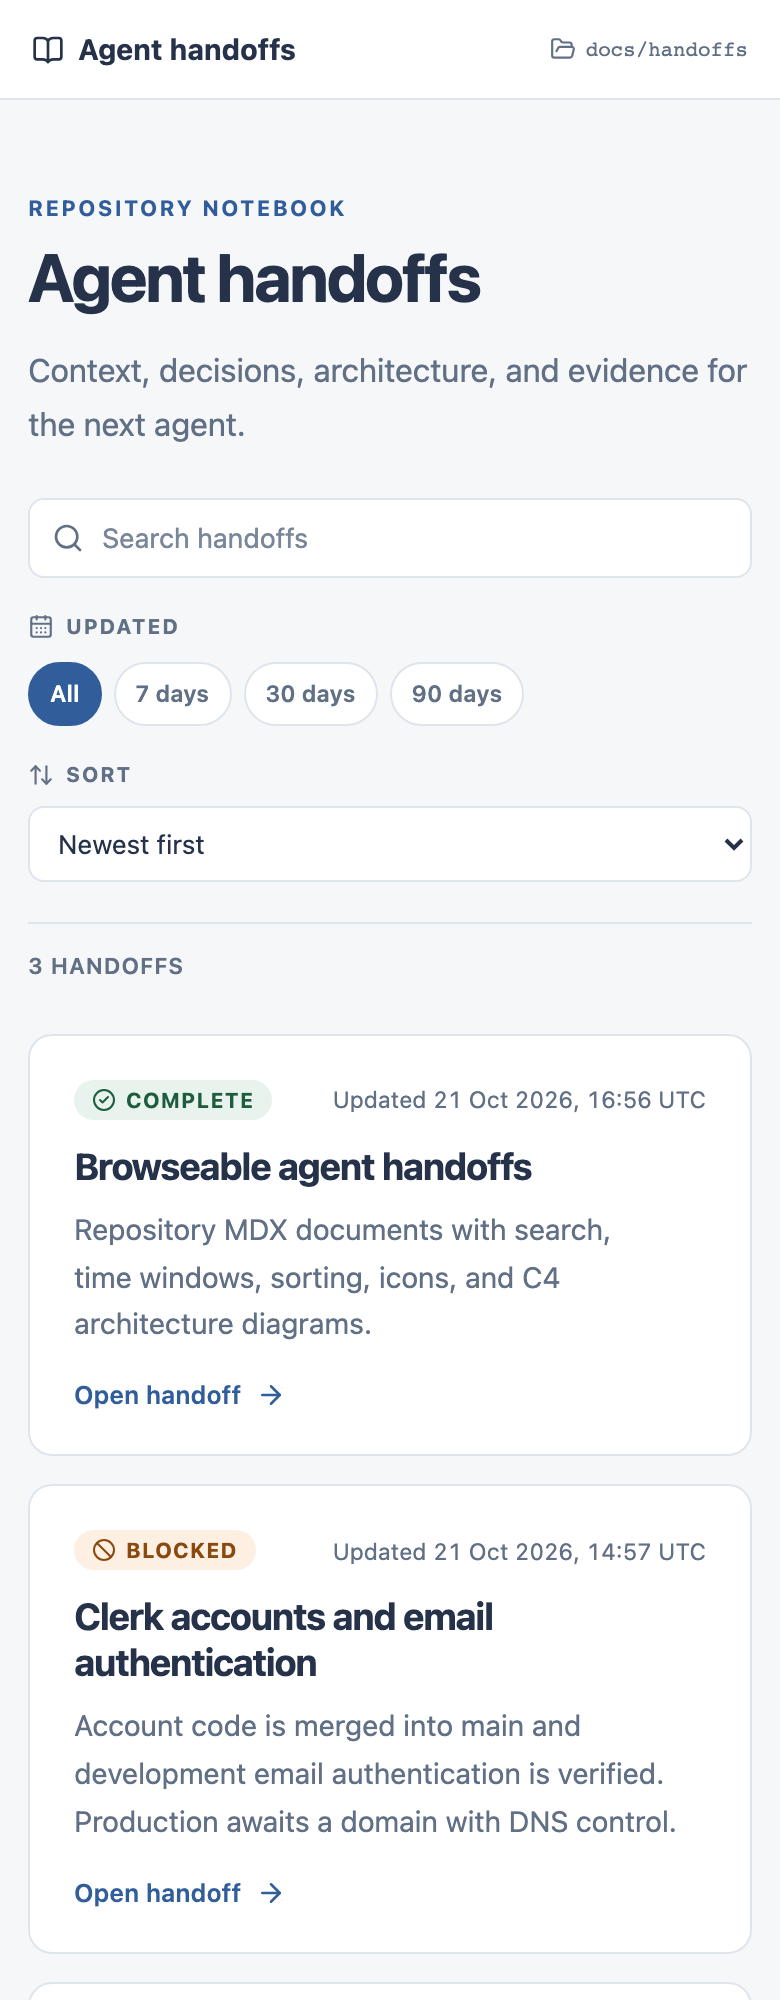
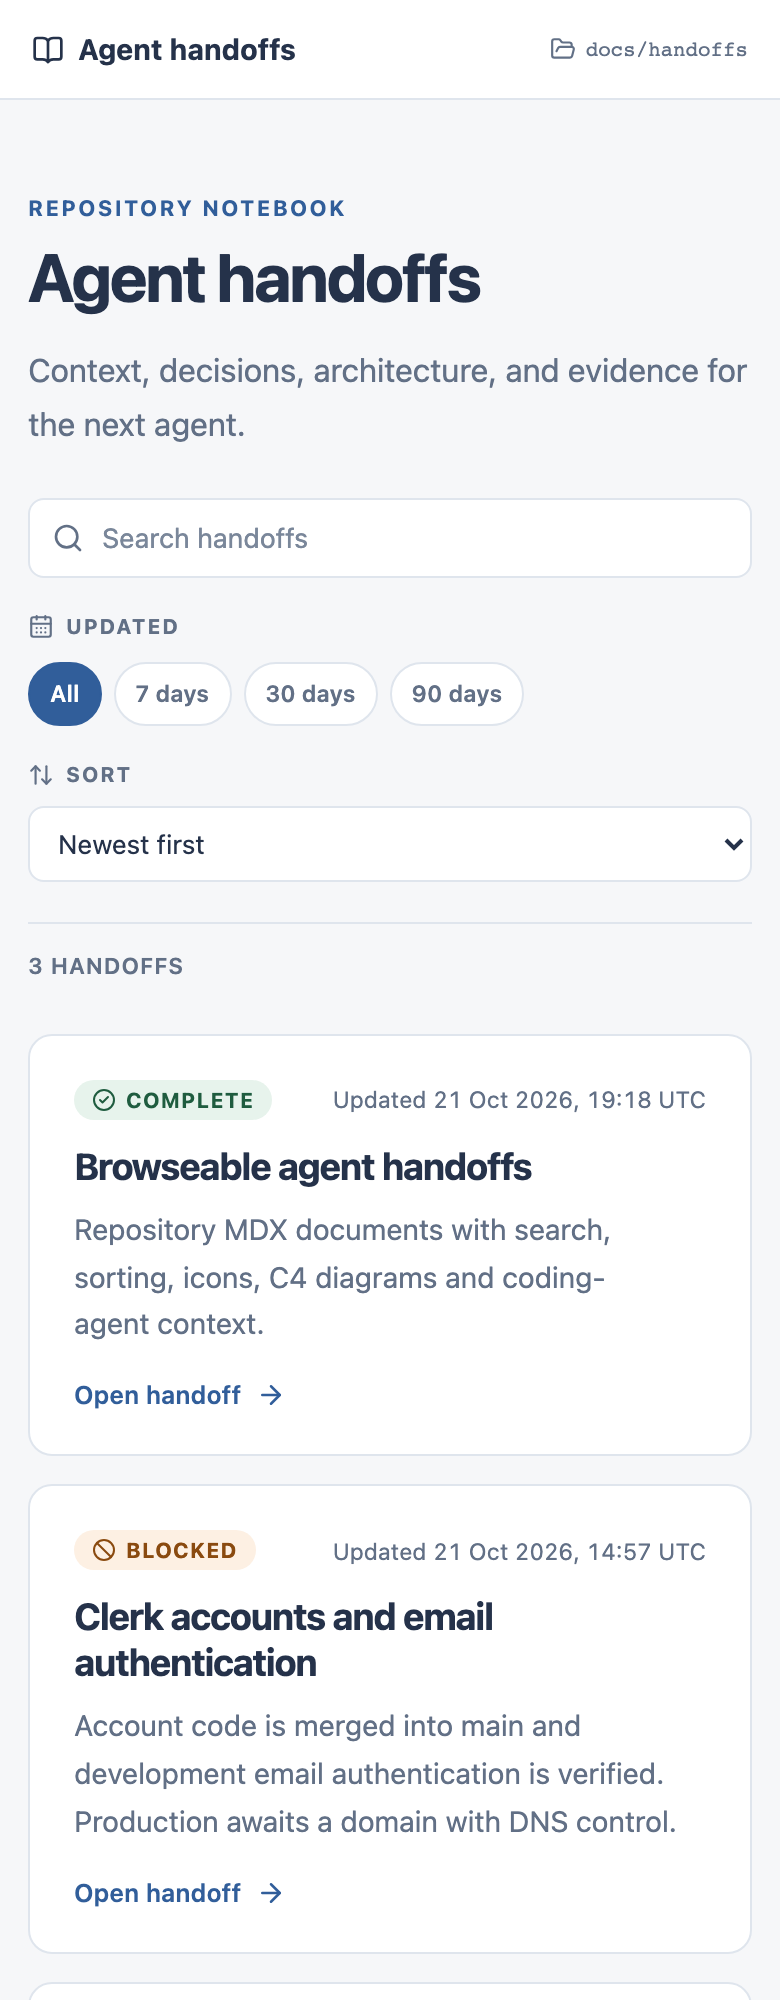
docs(handoffs): show coding agent and session evidence

Changed region(s): [[0.0923, 0.62, 0.7692, 0.682], [0.8, 0.527, 0.8308, 0.558]]

diff --git a/apps/handoffs/tests/e2e/handoffs.spec.ts b/apps/handoffs/tests/e2e/handoffs.spec.ts
@@ -36,7 +36,7 @@ test('repository MDX handoffs open with tables, checklists and rendered C4 diagr
     await expect(metadata).toContainText('opencode');
     await expect(metadata).toContainText('Session');
     await expect(metadata).toContainText(/ses_/);
-    await expect(metadata).toContainText('session/handoffs-landing-ui');
+    await expect(metadata).toContainText('session/handoff-agent-metadata');
     await expect(metadata.locator('time')).toHaveAttribute('datetime', /Z$/);
     const statusBounds = await metadata.locator('> div').nth(0).boundingBox();
     const agentBounds = await metadata.locator('> div').nth(1).boundingBox();
